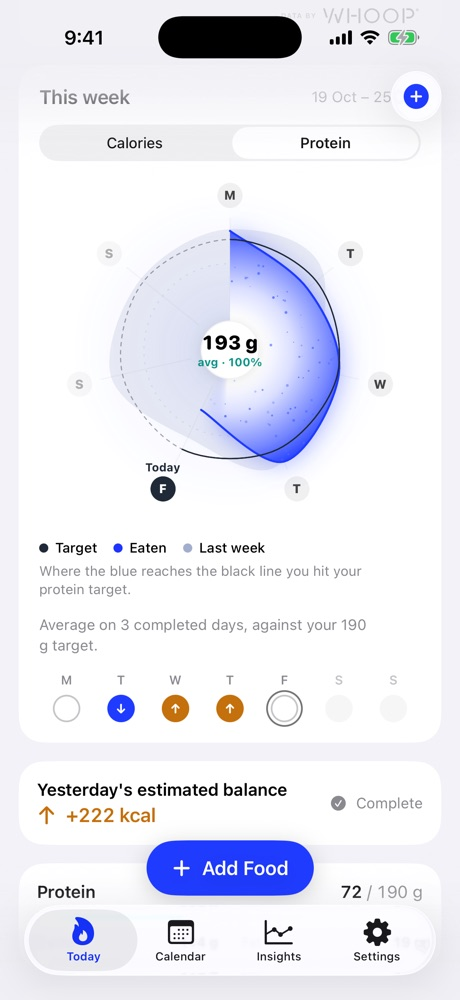
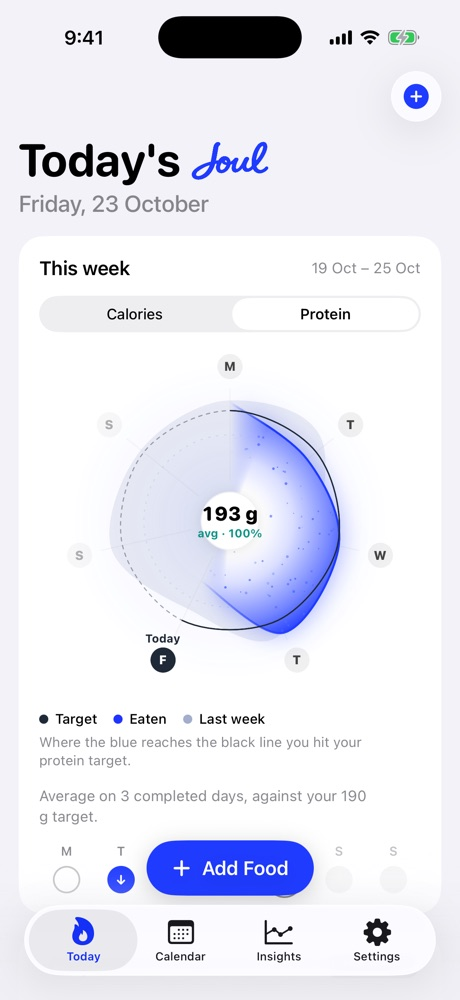
Refresh dial screenshots; make photo calorie estimates explicit

diff --git a/index.html b/index.html
@@ -69,14 +69,14 @@
         <a class="pill pill-dark" href="#waitlist">Get early access</a>
         <p class="data-by"><span>Data by</span><img src="assets/whoop-logo-black.svg" alt="WHOOP" width="96" height="16"></p>
       </div>
-      <div class="panel"><figure class="iphone"><img src="assets/screens/main.jpg" alt="Joul's main view: the weekly calories dial with calories burned as the outline and calories eaten as the glowing shape, and the week's balance in the middle" loading="lazy" width="1000" height="2174"></figure></div>
+      <div class="panel"><figure class="iphone"><img src="assets/screens/main.jpg?v=5" alt="Joul's main view: the weekly calories dial with calories burned as the outline and calories eaten as the glowing shape, and the week's balance in the middle" loading="lazy" width="1000" height="2174"></figure></div>
     </article>
 
     <article class="feature rev reveal">
       <div class="copy">
         <span class="ico" aria-hidden="true"><svg viewBox="0 0 24 24"><path d="M4 8a2 2 0 0 1 2-2h1.5l1.2-1.8h6.6L16.5 6H18a2 2 0 0 1 2 2v9a2 2 0 0 1-2 2H6a2 2 0 0 1-2-2V8Z"/><circle cx="12" cy="12.5" r="3.2"/></svg></span>
-        <h2>Say what you ate. Or snap it.</h2>
-        <p>Type “2 eggs, toast and an apple” and foods, emoji and portions appear, ready to tweak. With photo logging <i class="tag">Premium</i> Joul breaks a plate into foods and estimated portions. Nothing is saved until you say so.</p>
+        <h2>Snap your plate. Get the calories.</h2>
+        <p>Take a photo <i class="tag">Premium</i> and Joul estimates the calories and protein for each food on the plate, with portions you can adjust. Prefer words? Type “2 eggs, toast and an apple” and foods, emoji and portions appear. Nothing is saved until you say so.</p>
         <a class="pill pill-dark" href="#waitlist">Get early access</a>
       </div>
       <div class="panel"><figure class="iphone"><img src="assets/screens/meal-photo.jpg" alt="Photo logging: a plate of chicken, rice and tomato is recognised and broken into chicken 215 kcal, rice 260 kcal and tomato 14 kcal, 489 kcal in total" loading="lazy" width="1000" height="2174"></figure>
@@ -100,7 +100,7 @@
         <p>Flip the weekly dial from calories to protein. Your target is the outline, what you ate is the shape, and the days you hit it are easy to spot.</p>
         <a class="pill pill-dark" href="#waitlist">Get early access</a>
       </div>
-      <div class="panel"><figure class="iphone"><img src="assets/screens/dial-protein.jpg" alt="The weekly protein dial: your protein target as the outline and protein eaten as the shape" loading="lazy" width="1000" height="2174"></figure></div>
+      <div class="panel"><figure class="iphone"><img src="assets/screens/dial-protein.jpg?v=5" alt="The weekly protein dial: your protein target as the outline and protein eaten as the shape" loading="lazy" width="1000" height="2174"></figure></div>
     </article>
     <p class="fine center">Screens from the Joul app, shown with sample data.</p>
   </section>
@@ -111,7 +111,7 @@
     <ol class="steps">
       <li class="reveal"><span class="n">1</span><h3>Connect WHOOP</h3><p>Sign in on WHOOP's own page. Joul never sees your password.</p></li>
       <li class="reveal"><span class="n">2</span><h3>Pick your goal and pace</h3><p>Lose fat, maintain, gain muscle or recomp, as a percent of what you burn.</p></li>
-      <li class="reveal"><span class="n">3</span><h3>Say what you ate</h3><p>Type it, or snap it. Foods, emoji and portions are ready to tweak.</p></li>
+      <li class="reveal"><span class="n">3</span><h3>Say what you ate</h3><p>Type it, or snap a photo for a calorie estimate. Foods and portions are ready to tweak.</p></li>
       <li class="reveal"><span class="n">4</span><h3>See your Joul</h3><p>One number for the day, plus a calendar and a weekly dial.</p></li>
     </ol>
   </section>
